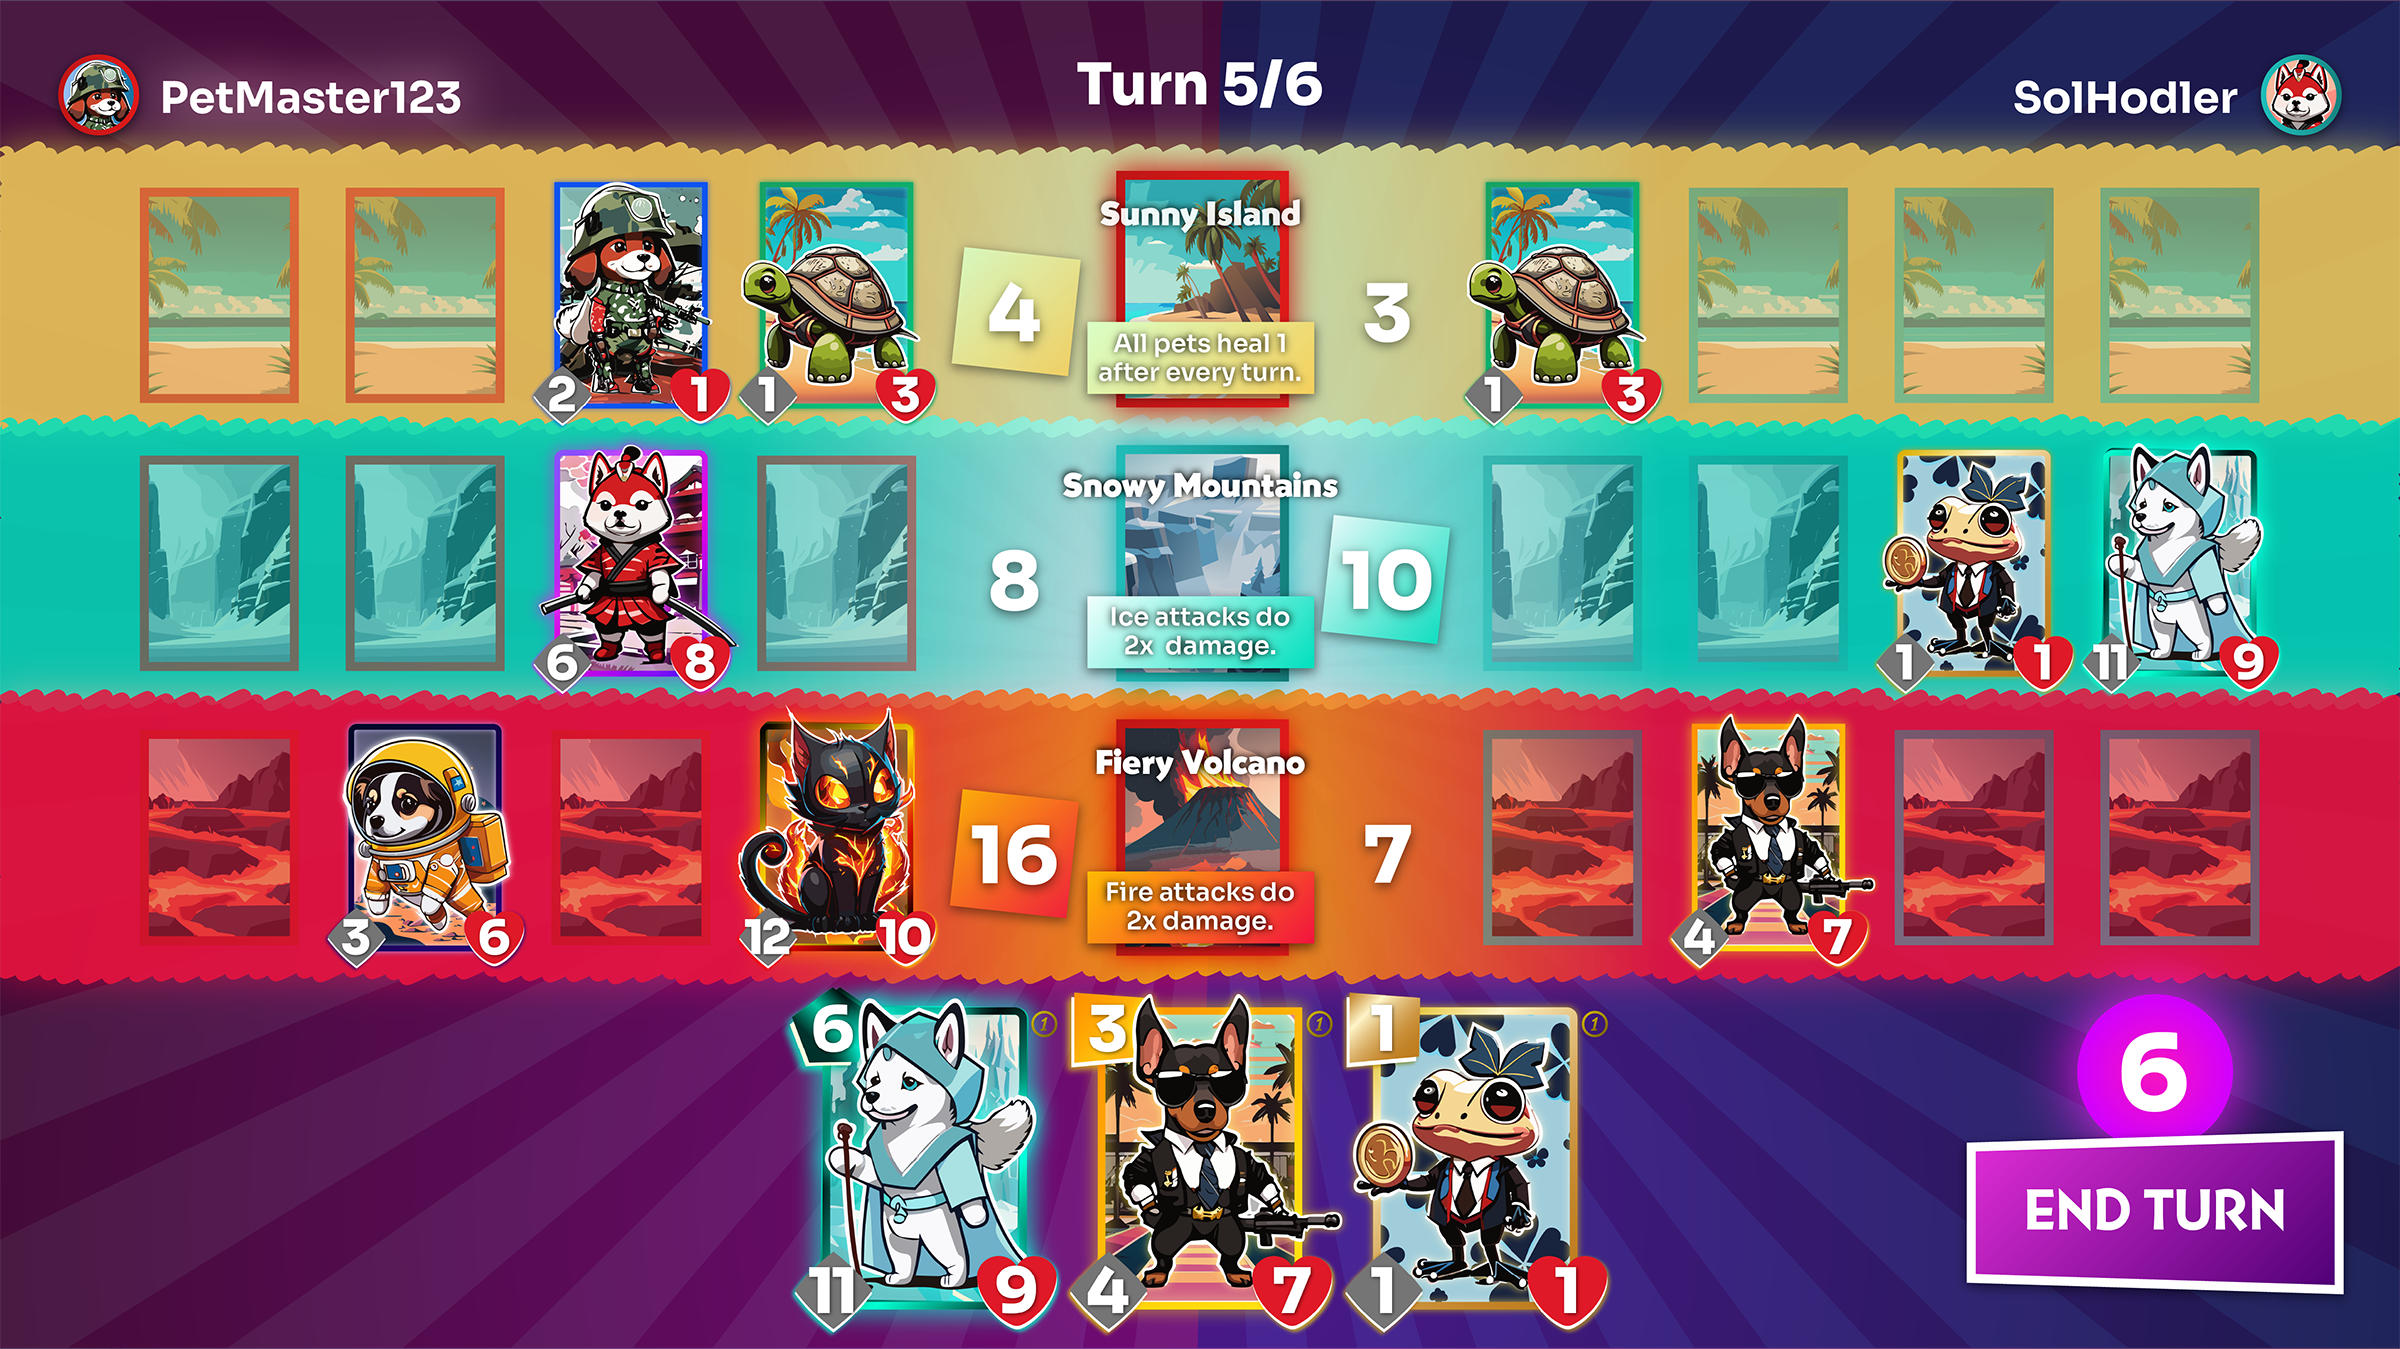
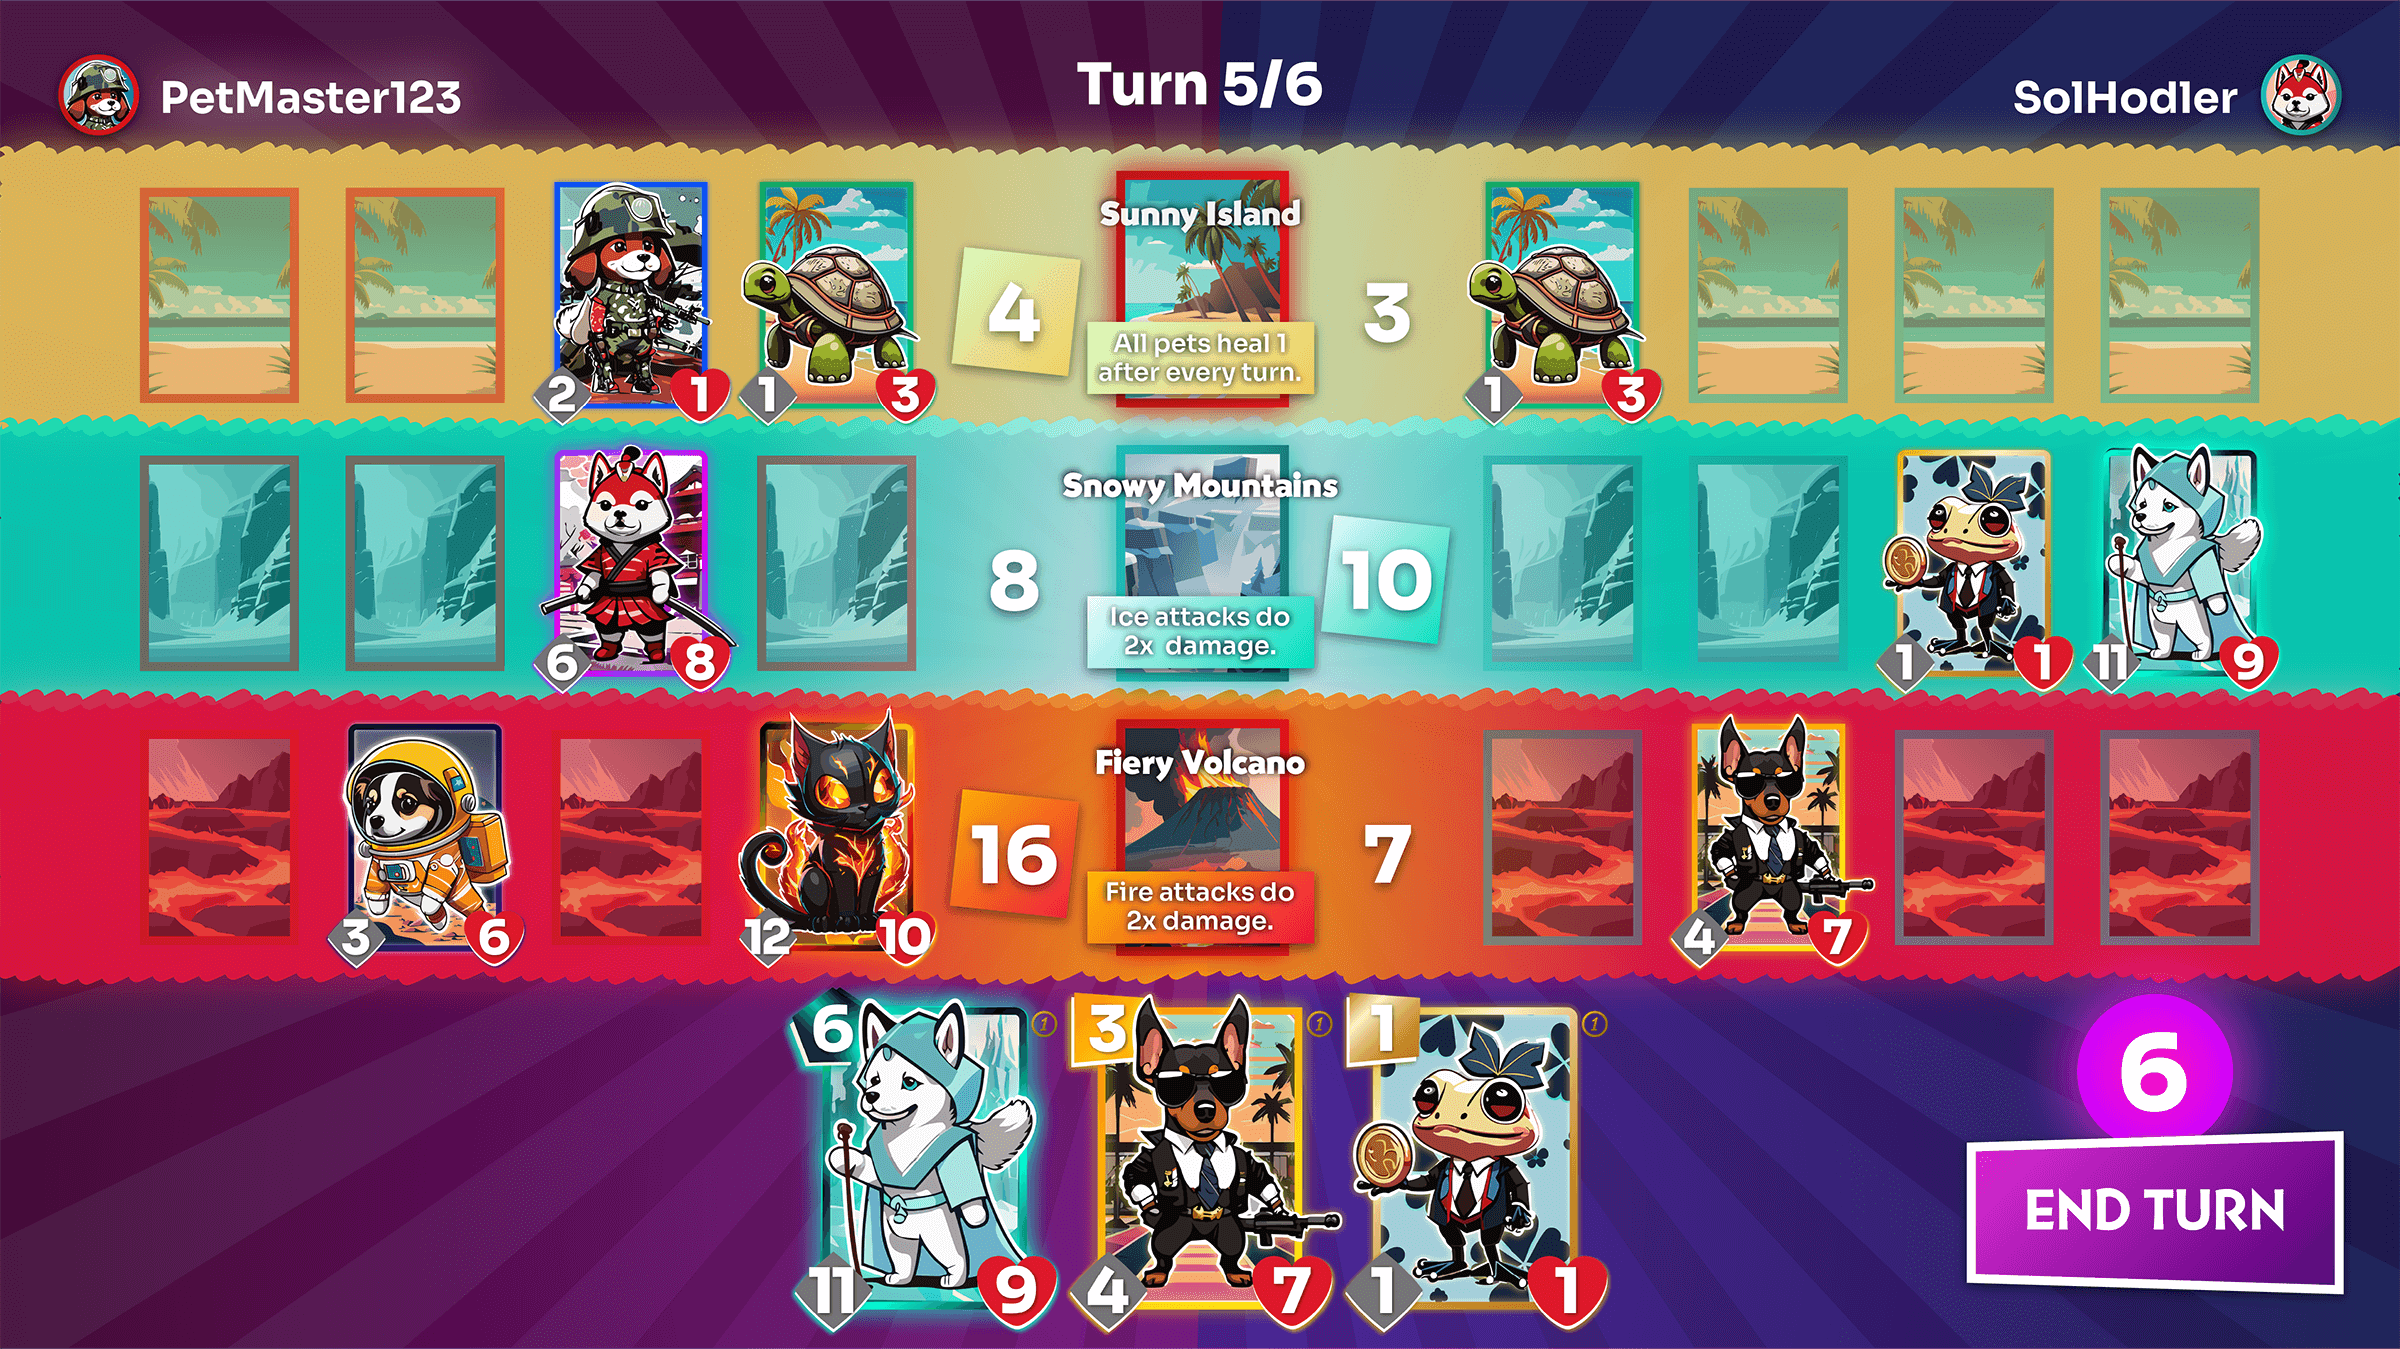
Website fixes to prep for marketing

diff --git a/apps/battlepets-web/src/app/page.module.scss b/apps/battlepets-web/src/app/page.module.scss
@@ -415,6 +415,7 @@
   height: 20rem;
   justify-content: center;
   position: absolute;
+  transform: rotate(-17.5deg);
   width: 16.6rem;
 
   @include mixins.iceGradientBackground;
@@ -522,6 +523,7 @@
   height: 24rem;
   justify-content: center;
   position: absolute;
+  transform: rotate(7.5deg);
   width: 21rem;
 
   @include mixins.fireGradientBackground;
@@ -571,6 +573,7 @@
   left: calc(50% - 19.9rem);
   position: absolute;
   top: 14.8rem;
+  transform: rotate(-1deg);
   width: 23rem;
 
   @include breakpoints.breakpoint(md) {
@@ -614,6 +617,7 @@
   left: calc(50% - 2.8rem);
   position: absolute;
   top: 8.6rem;
+  transform: rotate(-10deg);
   width: 15.8rem;
 
   @include breakpoints.breakpoint(md) {
@@ -659,6 +663,7 @@
   left: calc(50% + 3.5rem);
   position: absolute;
   top: 17.4rem;
+  transform: rotate(4deg);
   width: 21.6rem;
 
   @include breakpoints.breakpoint(md) {
@@ -1098,6 +1103,7 @@
   height: 25rem;
   margin: 0 auto -0.5rem;
   position: relative;
+  transform: rotate(-1deg);
   width: 100%;
 
   img {
@@ -1229,6 +1235,7 @@
   left: -5rem;
   position: absolute;
   top: -2rem;
+  transform: rotate(-9deg);
   width: 15rem;
   z-index: 2;
 
@@ -1259,6 +1266,7 @@
   height: 17rem;
   position: absolute;
   right: -7rem;
+  transform: rotate(9deg);
   width: 17rem;
   z-index: 2;
 
@@ -1344,32 +1352,45 @@
   }
 }
 
+.screenshotWrapper {
+  margin-bottom: 4rem;
+  margin-top: 3.4rem;
+
+  @include breakpoints.breakpoint(sm) {
+    margin-top: 4.4rem;
+  }
+
+  @include breakpoints.breakpoint(lg) {
+    margin-bottom: 5.2rem;
+  }
+}
+
 @mixin animatedScreenshotPanel($translateZ: 0) {
   $animation-name: string.unique-id() !global;
 
   @keyframes #{$animation-name} {
     0% {
-      box-shadow: 0 0 7rem var(--energy-glow-strong);
+      box-shadow: 0 0 5rem var(--energy-glow-strong);
       transform: rotate3d(1, 1, 0, 5deg) translateZ($translateZ) perspective($translateZ);
     }
 
     25% {
-      box-shadow: 0 0 9rem var(--energy-glow-strong);
+      box-shadow: 0 0 7rem var(--energy-glow-strong);
       transform: rotate3d(1, -1, 0, 5deg) translateZ($translateZ) perspective($translateZ);
     }
 
     50% {
-      box-shadow: 0 0 7rem var(--energy-glow-strong);
+      box-shadow: 0 0 5rem var(--energy-glow-strong);
       transform: rotate3d(-1, -1, 0, 5deg) translateZ($translateZ) perspective($translateZ);
     }
 
     75% {
-      box-shadow: 0 0 9rem var(--energy-glow-strong);
+      box-shadow: 0 0 7rem var(--energy-glow-strong);
       transform: rotate3d(-1, 1, 0, 5deg) translateZ($translateZ) perspective($translateZ);
     }
 
     100% {
-      box-shadow: 0 0 7rem var(--energy-glow-strong);
+      box-shadow: 0 0 5rem var(--energy-glow-strong);
       transform: rotate3d(1, 1, 0, 5deg) translateZ($translateZ) perspective($translateZ);
     }
   }
@@ -1380,8 +1401,8 @@
 .screenshot {
   @include animatedScreenshotPanel;
 
-  margin-bottom: 4rem;
-  margin-top: 3.4rem;
+  box-shadow: 0 0 5rem var(--energy-glow-strong);
+  transform: rotate3d(1, 1, 0, 5deg) translateZ(0) perspective(0);
   transform-origin: 50% 50%;
   z-index: 1;
 
@@ -1390,9 +1411,11 @@
     @include animatedScreenshotPanel(-1rem);
 
     background: linear-gradient(135deg, var(--energy-gradient-dark), var(--energy-gradient-light));
+    box-shadow: 0 0 5rem var(--energy-glow-strong);
     content: '';
     left: 0.6rem;
     top: 0.6rem;
+    transform: rotate3d(1, 1, 0, 5deg) translateZ(-1rem) perspective(-1rem);
     transform-origin: 50% 50%;
 
     @include breakpoints.breakpoint(md) {
@@ -1406,9 +1429,11 @@
     @include animatedScreenshotPanel(-2rem);
 
     background: linear-gradient(135deg, var(--energy-gradient-light), var(--energy-gradient-dark));
+    box-shadow: 0 0 5rem var(--energy-glow-strong);
     content: '';
     left: -0.6rem;
     top: -0.6rem;
+    transform: rotate3d(1, 1, 0, 5deg) translateZ(-2rem) perspective(-2rem);
     transform-origin: 50% 50%;
     z-index: -1;
 
@@ -1416,14 +1441,6 @@
       left: -0.8rem;
       top: -0.8rem;
     }
-  }
-
-  @include breakpoints.breakpoint(sm) {
-    margin-top: 4.4rem;
-  }
-
-  @include breakpoints.breakpoint(lg) {
-    margin-bottom: 5.2rem;
   }
 }
 
@@ -1626,6 +1643,7 @@
 
 .promoCardImageWrapper {
   animation: promoCardImageWrapperAnimation 8s ease-in-out infinite alternate;
+  transform: rotate(0deg) scale(1.05);
 
   &::after {
     @include mixins.fillSpace;
@@ -1637,6 +1655,7 @@
     background-size: contain;
     content: '';
     opacity: 0.75;
+    transform: rotate(0deg) scale(1.05);
     z-index: -1;
   }
 }
@@ -1880,6 +1899,7 @@
 .roadmapPointScaler {
   animation: roadmapPointScalerAnimation 5s ease-in-out infinite;
   height: 2rem;
+  transform: translate(-50%, -50%) scale(1);
   transform-origin: 50% 50%;
   width: 2rem;
 
@@ -1909,20 +1929,8 @@
   }
 }
 
-@keyframes roadmapPointAnimation1 {
-  0% {
-    transform: rotate(0deg);
-  }
-
-  100% {
-    transform: rotate(360deg);
-  }
-}
-
 .roadmapPoint {
-  animation:
-    roadmapPointAnimation1 20s linear infinite,
-    roadmapPointAnimation2 5s linear infinite;
+  animation: fullRotateAnimation 20s linear infinite;
   box-shadow: 0.3rem 0.3rem 0.3rem var(--shadow-light);
   height: 100%;
   width: 100%;

diff --git a/apps/battlepets-web/src/app/page.tsx b/apps/battlepets-web/src/app/page.tsx
@@ -110,6 +110,7 @@ const Home = () => {
                 style={{ objectFit: 'contain' }}
                 sizes="(max-width: 36em) 8.6rem, (max-width: 62em) 9.2rem, (max-width: 75.0625em) 9.6rem, (max-width: 90.0625em) 10rem, 11rem"
                 priority
+                unoptimized
               />
             </Link>
             <nav>
@@ -127,7 +128,7 @@ const Home = () => {
             </nav>
           </div>
           <Link href={LITEPAPER_URL} target="_blank" rel="noopener noreferrer nofollow">
-            <Button>Read Litepaper</Button>
+            <Button asDiv>Read Litepaper</Button>
           </Link>
         </div>
       </header>
@@ -170,7 +171,6 @@ const Home = () => {
                       alt="Solana logo"
                       fill
                       style={{ objectFit: 'contain' }}
-                      sizes="(max-width: 36em) 11rem, (max-width: 62em) 12.1rem, (max-width: 90.0625em) 14rem, 16rem"
                       priority
                     />
                   </div>
@@ -311,16 +311,18 @@ const Home = () => {
           <RevealedSection>
             <div className={`${styles.sectionContent} ${styles.gamePreviewSectionContent}`}>
               <h4 className={globalStyles.slideInVerticalOnReveal1}>Coming Soon To Your Mobile Devices!</h4>
-              <div className={globalStyles.slowScaleInOnReveal}>
-                <div className={styles.screenshot}>
-                  <div className={styles.screenshotImageWrapper} onClick={handleToggleLightbox}>
-                    <Image
-                      src={screenshot}
-                      alt="Game Preview Screenshot"
-                      fill
-                      style={{ objectFit: 'contain' }}
-                      sizes="(max-width: 48.375em) 88vw, (max-width: 62em) 68rem, (max-width: 75.0625em) 88rem, (max-width: 90.0625em) 98rem, 104rem"
-                    />
+              <div className={styles.screenshotWrapper}>
+                <div className={globalStyles.slowScaleInOnReveal}>
+                  <div className={styles.screenshot}>
+                    <div className={styles.screenshotImageWrapper} onClick={handleToggleLightbox}>
+                      <Image
+                        src={screenshot}
+                        alt="Game Preview Screenshot"
+                        fill
+                        style={{ objectFit: 'contain' }}
+                        sizes="(max-width: 48.375em) 88vw, (max-width: 62em) 68rem, (max-width: 75.0625em) 88rem, (max-width: 90.0625em) 98rem, 104rem"
+                      />
+                    </div>
                   </div>
                 </div>
               </div>
@@ -333,7 +335,6 @@ const Home = () => {
                       alt="Google Play logo"
                       fill
                       style={{ objectFit: 'contain' }}
-                      sizes="(max-width: 36em) 12.8rem, (max-width: 75.0625em) 13.4rem, (max-width: 90.0625em) 16rem, 17rem"
                     />
                   </div>
                   <div className={styles.appStoreLogoWrapper}>
@@ -342,7 +343,6 @@ const Home = () => {
                       alt="Apple App Store logo"
                       fill
                       style={{ objectFit: 'contain' }}
-                      sizes="(max-width: 36em) 11.2rem, (max-width: 75.0625em) 12rem, (max-width: 90.0625em) 13rem, 14rem"
                     />
                   </div>
                 </div>
@@ -399,7 +399,7 @@ const Home = () => {
             <div className={styles.roadmapSectionHeader}>
               <h3 className={globalStyles.slideInVerticalOnReveal1}>Roadmap</h3>
               <Link href={LITEPAPER_URL} target="_blank" rel="noopener noreferrer nofollow">
-                <Button>Read Litepaper</Button>
+                <Button asDiv>Read Litepaper</Button>
               </Link>
             </div>
             <div className={styles.roadmapWrapper}>
@@ -440,7 +440,7 @@ const Home = () => {
             </div>
             <div className={styles.roadmapMobileCTAWrapper}>
               <Link href={LITEPAPER_URL} target="_blank" rel="noopener noreferrer nofollow">
-                <Button>Read Litepaper</Button>
+                <Button asDiv>Read Litepaper</Button>
               </Link>
             </div>
             <CTA

diff --git a/apps/battlepets-web/src/components/Button.tsx b/apps/battlepets-web/src/components/Button.tsx
@@ -1,20 +1,42 @@
+import { HTMLAttributes } from 'react'
+
 import styles from './button.module.scss'
 import { Loader } from './Loader'
 export interface ButtonProps extends React.ButtonHTMLAttributes<HTMLButtonElement> {
   variant?: 'fire' | 'ice' | 'promo'
   isLoading?: boolean
+  asDiv?: boolean
 }
 
-export const Button: React.FC<ButtonProps> = ({ children, className, isLoading = false, variant = 'ice', ...rest }) => (
-  <button
-    {...rest}
-    className={`${className ?? ''} ${styles.button} ${variant === 'fire' ? styles.fireButton : ''} ${variant === 'ice' ? styles.iceButton : ''} ${variant === 'promo' ? styles.promoButton : ''}`}
-  >
-    {isLoading && (
-      <div className={styles.buttonLoader}>
-        <Loader />
-      </div>
-    )}
-    {children}
-  </button>
-)
+export const Button: React.FC<ButtonProps> = ({
+  asDiv = false,
+  children,
+  className,
+  isLoading = false,
+  variant = 'ice',
+  ...rest
+}) => {
+  const buttonProps = {
+    ...rest,
+    className: `${className ?? ''} ${styles.button} ${variant === 'fire' ? styles.fireButton : ''} ${variant === 'ice' ? styles.iceButton : ''} ${variant === 'promo' ? styles.promoButton : ''}`,
+  }
+
+  const buttonContent = (
+    <>
+      {isLoading && (
+        <div className={styles.buttonLoader}>
+          <Loader />
+        </div>
+      )}
+      {children}
+    </>
+  )
+
+  return asDiv ? (
+    <div {...(buttonProps as HTMLAttributes<HTMLDivElement>)} role="button" tabIndex={0}>
+      {buttonContent}
+    </div>
+  ) : (
+    <button {...buttonProps}>{buttonContent}</button>
+  )
+}

diff --git a/apps/battlepets-web/src/app/layout.tsx b/apps/battlepets-web/src/app/layout.tsx
@@ -46,10 +46,13 @@ const RootLayout = ({ children }: { children: React.ReactNode }) => (
       <link rel="stylesheet" href="https://use.typekit.net/bjy5uxp.css" />
     </head>
 
-    <body className={sora.className}>{children}</body>
+    <body className={sora.className}>
+      {children}
 
-    <Analytics />
-    <SpeedInsights />
+      <Analytics />
+      <SpeedInsights />
+    </body>
+
     {GA_ID && <GoogleAnalytics gaId={GA_ID} />}
   </html>
 )

diff --git a/apps/battlepets-web/src/app/global-error.tsx b/apps/battlepets-web/src/app/global-error.tsx
@@ -32,7 +32,7 @@ const GlobalError = ({ error }: GlobalErrorProps) => {
           <h3>Something Went Wrong</h3>
           <p>There was an unexpected error…</p>
           <Link href="/">
-            <Button>Go To Home Page</Button>
+            <Button asDiv>Go To Home Page</Button>
           </Link>
         </div>
       </body>

diff --git a/apps/battlepets-web/src/app/not-found.tsx b/apps/battlepets-web/src/app/not-found.tsx
@@ -8,7 +8,7 @@ const NotFound = () => (
     <h3>Page Not Found</h3>
     <p>The page you’re looking for does not exist…</p>
     <Link href="/">
-      <Button>Go To Home Page</Button>
+      <Button asDiv>Go To Home Page</Button>
     </Link>
   </div>
 )
